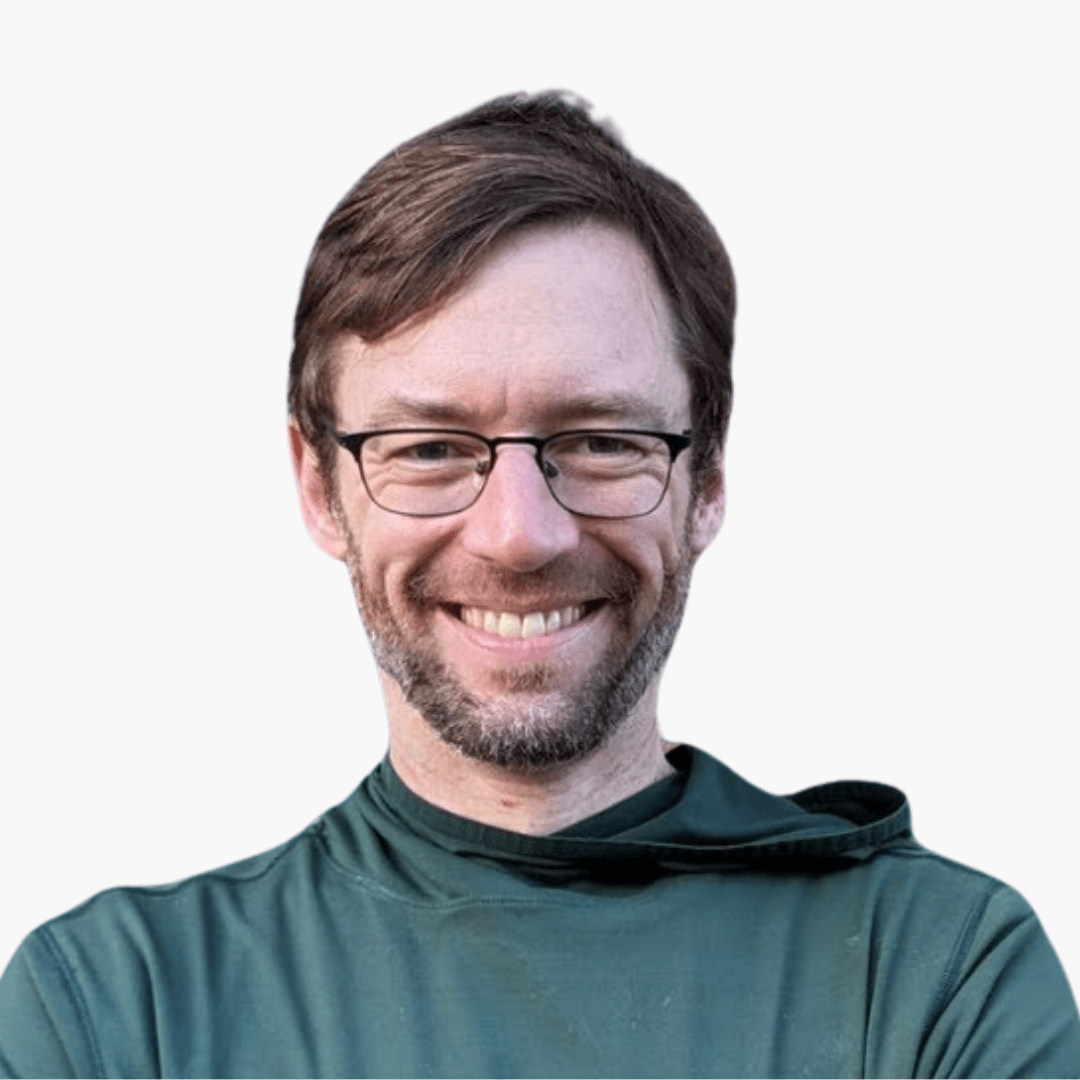
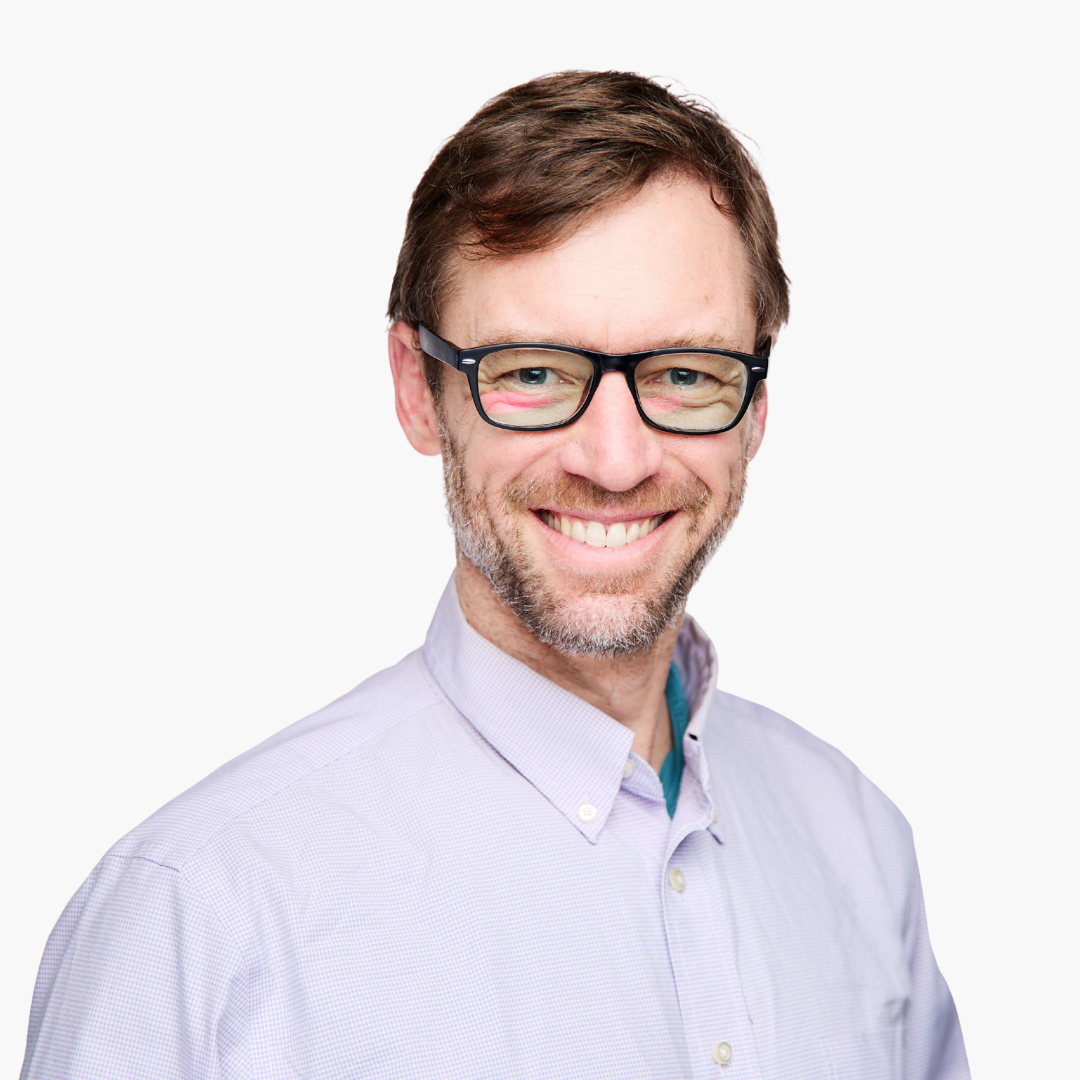
Update to Rob Hean
Added Robert Hean title and abstract and change photo. Also changed bio

diff --git a/index.html b/index.html
@@ -185,7 +185,8 @@
                                         <em>Room 2</em>
                                     </div>
                                     <div class="track-item">
-                                        <strong>Agile Track:</strong> <em>Breakout Session : Room 3</em>
+                                        <strong>Agile Track:</strong> <em>Managing Lessons Learned with Jira & Confluence</em>
+                                        <em>Room 3</em>
                                     </div>
                                 </div>
                             </div>
@@ -519,8 +520,10 @@
             <h3 class="speaker-name">Matt Doar</h3>
         </div>
 
-        <div class="speaker-card" data-bio="Robert Hean is passionate about helping others do what they love by leveraging systems, tools, and concepts that free them to focus on their joy. With over 15 years of experience in IT and business systems, he combines deep technical expertise with a people-first approach to problem-solving. In addition to his blog at hean.tech, Robert is also a content creator on his YouTube channel, Hean-Tech, where he shares practical insights on technology, systems, and tools. Dedicated to making complex concepts accessible and empowering, he continues to support both individuals and teams in achieving their goals.">
-            <img src="speakers/RobHean.png" alt="Rob Hean" class="speaker-photo">
+        <div class="speaker-card" data-bio="Robert Hean has more than 15 years experience in IT and Business Systems.  He has been involved in many aspects of IT, including service desk, program management, and data and analytics.  He has built compensation platforms from the ground up, designed HR databases and driven hard disks over state lines to complete projects on time.
+
+        He feels that systems exist to make our lives easier, and constantly asks himself &quot;What would have helped me earlier in my career?&quot; when approaching topics.">
+            <img src="speakers/RobHean.png" alt="Robert Hean" class="speaker-photo">
             <h3 class="speaker-name">Robert Hean</h3>
         </div>
         
